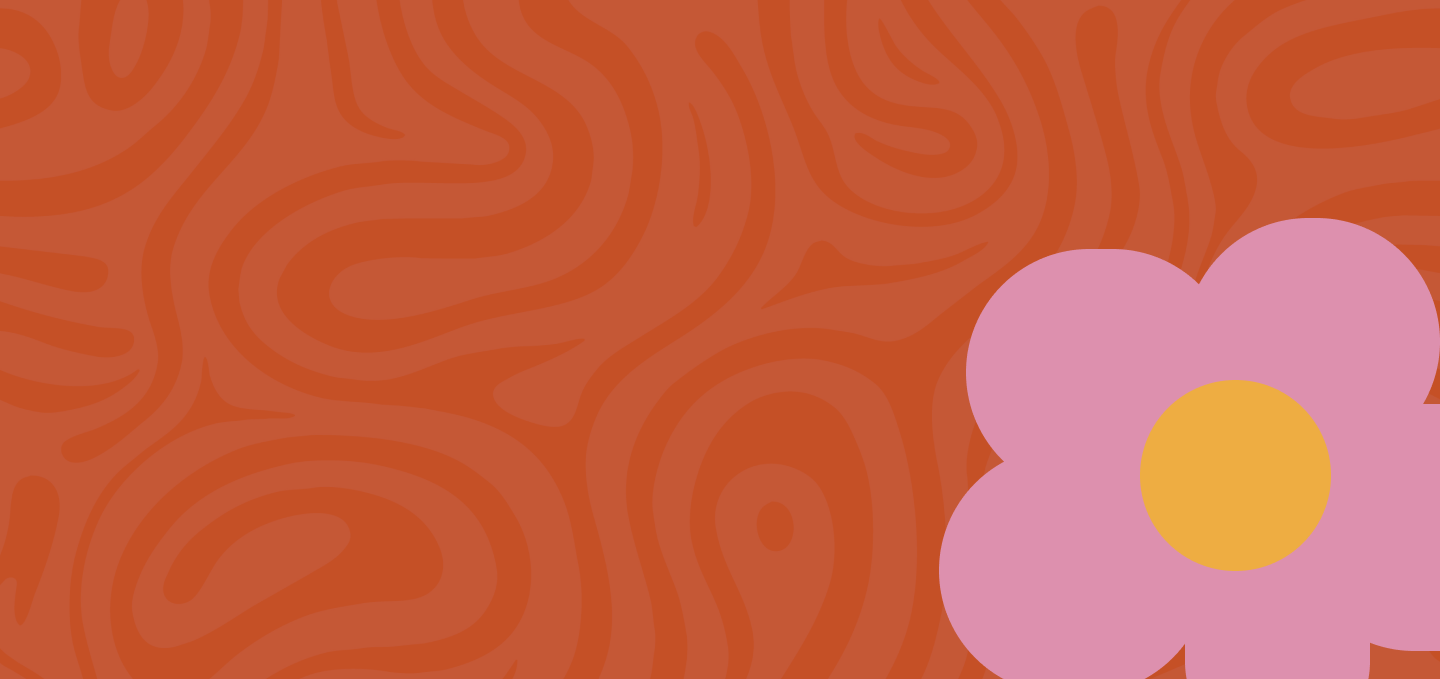
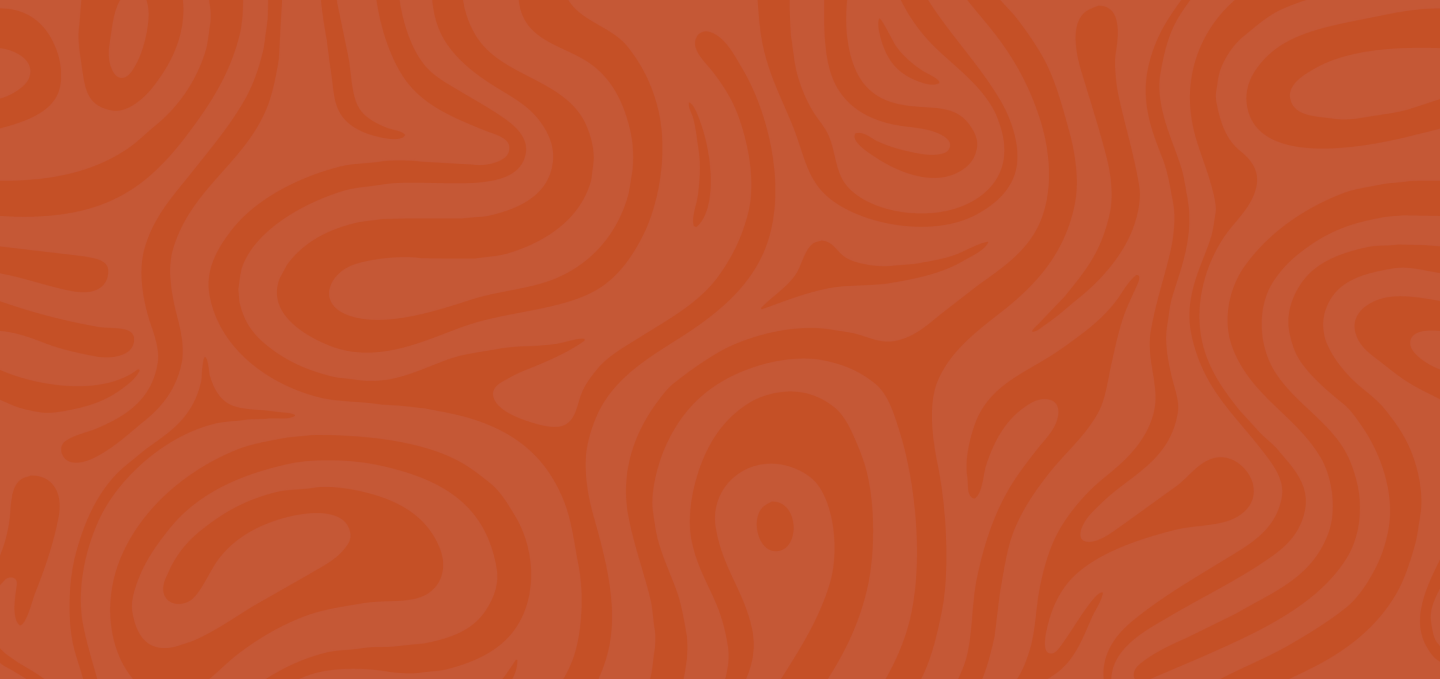
Ajustes no header 💅🏻 💅🏻

Changed region(s): [[0.625, 0.3093, 1.0, 1.0]]

diff --git a/wp-content/themes/Shirley/header.php b/wp-content/themes/Shirley/header.php
@@ -32,7 +32,10 @@
 
 <body class="body">
 	<header class="header" style="background-image:url('<?php echo home_url(); ?>/wp-content/themes/Shirley/assets/images/fundo.png');background-repeat:no-repeat; background-size:cover">
-		<div class="grid">
+		<div class="flor-rosa">
+			<img src="<?php echo home_url(); ?>/wp-content/themes/Shirley/assets/images/florrosa.png" alt="Flor">
+		</div>
+	<div class="grid">
 			<div class="menu">
 				<div class="logo">
 					<img src="<?php echo home_url(); ?>/wp-content/themes/Shirley/assets/images/logo.png" alt="Logo">
@@ -40,11 +43,11 @@
 				<div class="conteudo-menu">
 					<div class="links">
 						<a href="">Home</a>
-						<i class="fa-solid fa-star" style="color: #000000;"></i>
+						<i class="fa-solid fa-star" style="color: #DD90AE;"></i>
 						<a href="">Projetos</a>
-						<i class="fa-solid fa-star" style="color: #000000;"></i>
+						<i class="fa-solid fa-star" style="color: #DD90AE;"></i>
 						<a href="">Sobre</a>
-						<i class="fa-solid fa-star" style="color: #000000;"></i>
+						<i class="fa-solid fa-star" style="color: #DD90AE;"></i>
 						<a href="">Contato</a>
 					</div>
 					<div class="redes">
